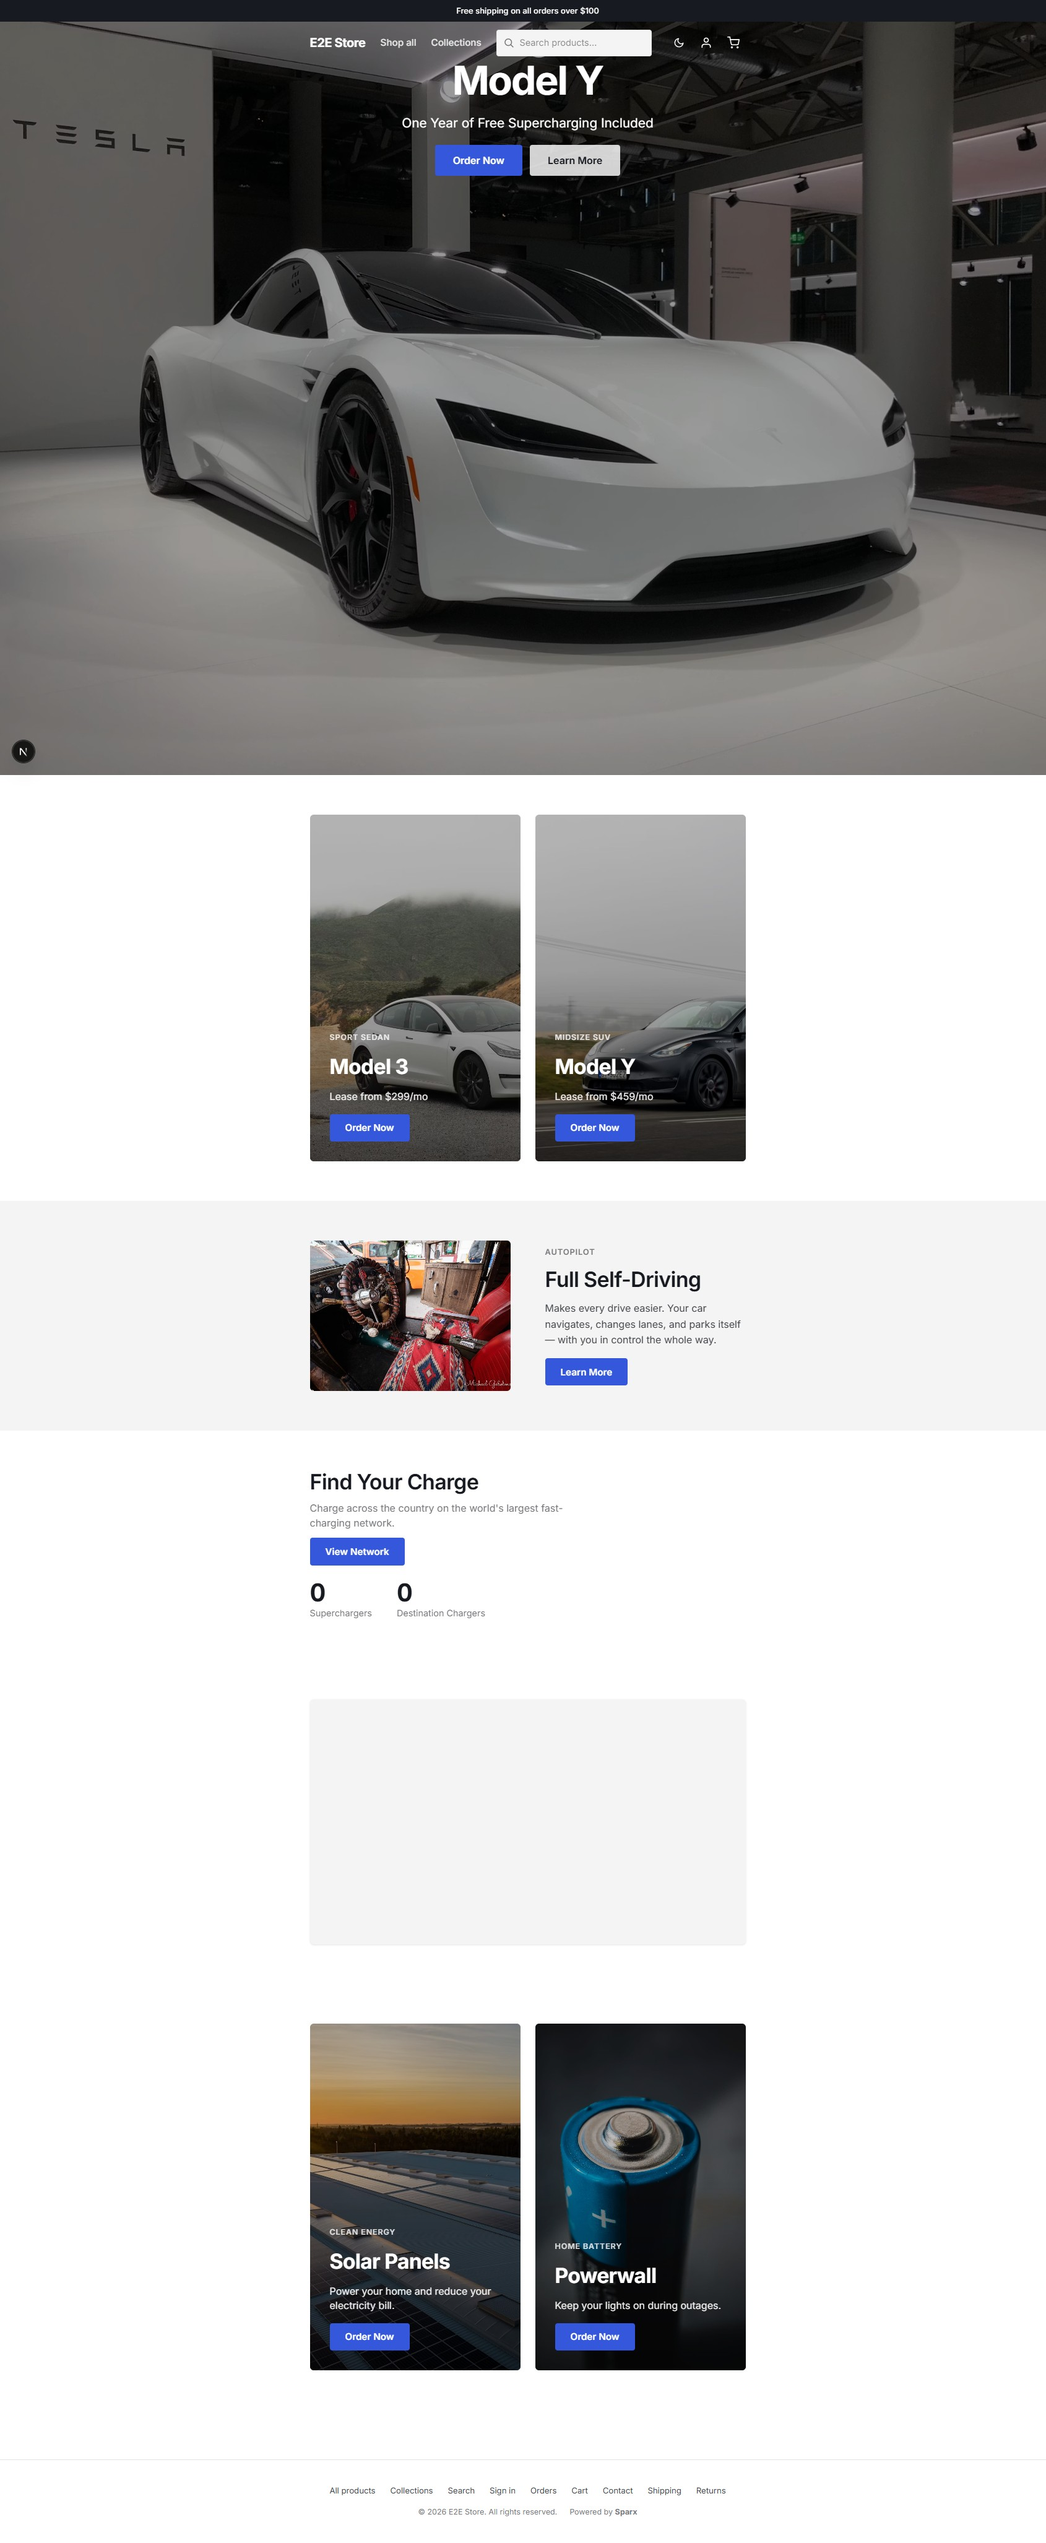
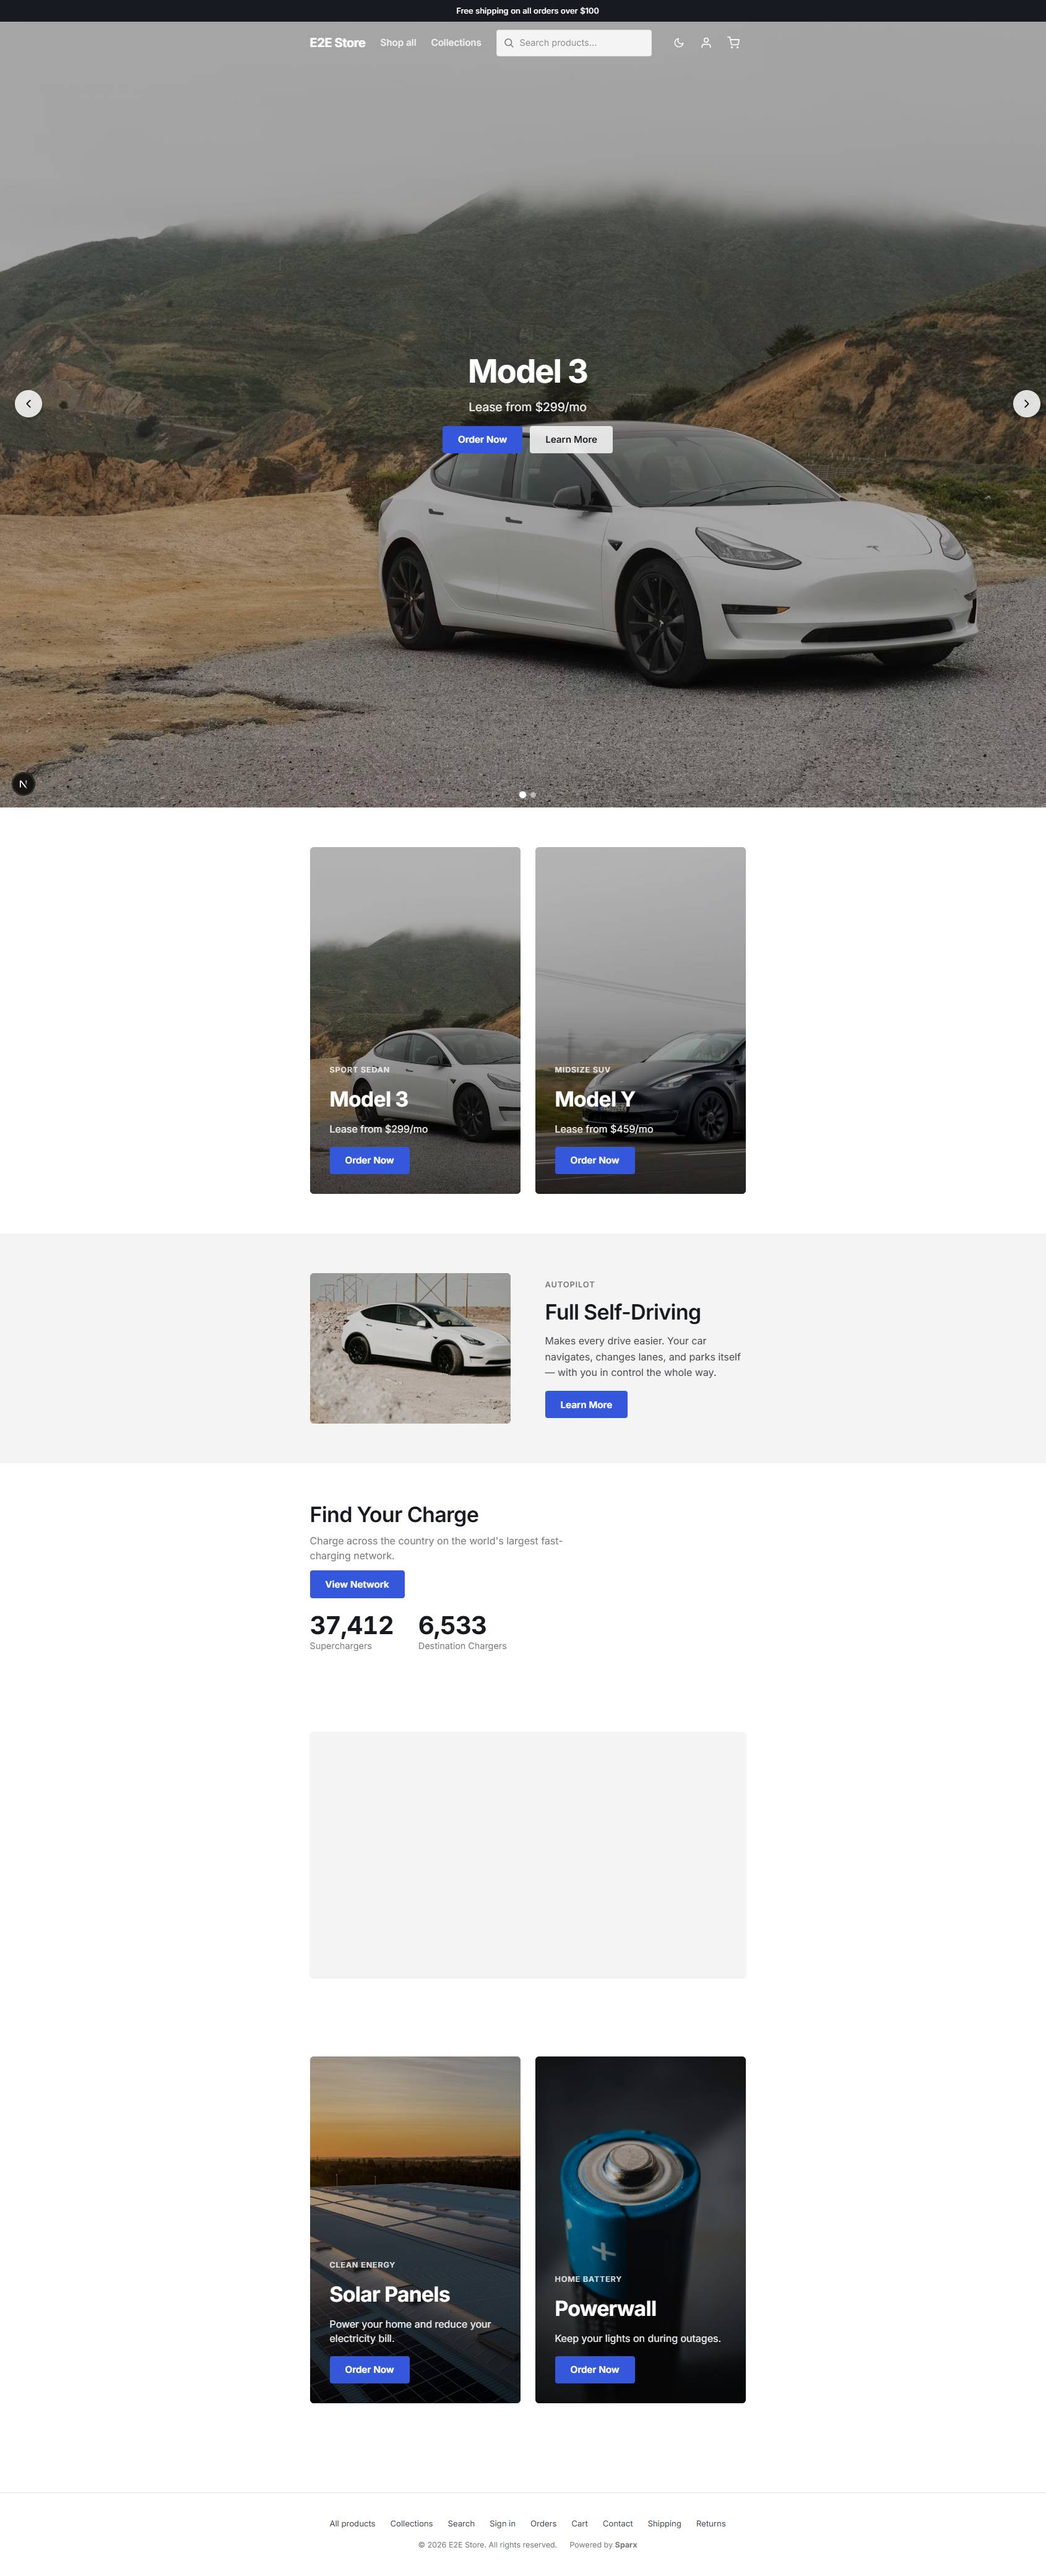
chore: update tesla-page-full image file

diff --git a/apps/storefront/app/storefront.css b/apps/storefront/app/storefront.css
@@ -1881,6 +1881,41 @@
   line-height: 1.5;
   opacity: 0.95;
 }
+/* Split placement — the full-screen "model name up top, buttons down low" hero
+   treatment: text group pinned to the top, CTA group to the bottom, the photo
+   filling the gap between. */
+.sf-sb-banner[data-valign='split'] {
+  align-items: stretch;
+}
+.sf-sb-banner[data-valign='split'] .sf-sb-banner__inner {
+  /* No explicit height — `align-items: stretch` on the banner stretches this to
+     the full section height so space-between can pin the groups top & bottom.
+     (Setting height:100% here would resolve against the parent's indefinite
+     height and collapse back to content height.) */
+  display: flex;
+  flex-direction: column;
+  justify-content: space-between;
+  align-self: stretch;
+  width: 100%;
+  max-width: none;
+  gap: 1.5rem;
+}
+.sf-sb-banner__group {
+  display: grid;
+  gap: 0.75rem;
+}
+.sf-sb-banner[data-align='center'] .sf-sb-banner__group {
+  justify-items: center;
+}
+.sf-sb-banner[data-align='right'] .sf-sb-banner__group {
+  justify-items: end;
+}
+.sf-sb-banner[data-valign='split'] .sf-sb-banner__group--top {
+  padding-top: clamp(0.5rem, 4vh, 3rem);
+}
+.sf-sb-banner[data-valign='split'] .sf-sb-banner__group--bottom {
+  padding-bottom: clamp(0.5rem, 3vh, 2rem);
+}
 
 /* Rich text section. */
 .sf-sb-richtext[data-align='center'] {
@@ -2671,6 +2706,15 @@ html.sf-reveal-ready [data-section-type='hero'] .sf-sb-hero__inner > *:nth-child
 .sf-sb-panel--media .sf-btn--dark:hover,
 .sf-sb-carousel__slide .sf-btn--dark:hover {
   background: rgb(23 26 32 / 0.88);
+}
+/* Tesla-style media-overlay CTAs: pill-shaped and comfortably wide, independent
+   of the site's base control radius (the full-bleed hero/banner button look). */
+.sf-sb-hero[data-has-bg='true'] .sf-btn,
+.sf-sb-banner .sf-btn,
+.sf-sb-panel--media .sf-btn,
+.sf-sb-carousel__slide .sf-btn {
+  border-radius: 100px;
+  min-width: 12rem;
 }
 
 /* ─── Embed section (docs/37 — bring-your-own map / video / widget) ──────────

diff --git a/apps/storefront/components/sections/image-banner.tsx b/apps/storefront/components/sections/image-banner.tsx
@@ -20,6 +20,17 @@ export function ImageBannerSection({
   const overlay = Math.min(100, Math.max(0, config.overlayOpacity)) / 100;
   const ctas = resolveCtas(config);
   const hasText = Boolean(config.eyebrow || config.heading || config.subheading || ctas.length);
+  // `split` pins the text to the top and the CTAs to the bottom of a full-height
+  // section (the Tesla-style model section). Otherwise everything stacks together.
+  const isSplit = config.verticalAlign === 'split';
+
+  const textBlock = (
+    <>
+      {config.eyebrow ? <p className="sf-sb-banner__eyebrow">{config.eyebrow}</p> : null}
+      {config.heading ? <h2 className="sf-sb-banner__title">{config.heading}</h2> : null}
+      {config.subheading ? <p className="sf-sb-banner__sub">{config.subheading}</p> : null}
+    </>
+  );
 
   const banner = (
     <div
@@ -44,10 +55,21 @@ export function ImageBannerSection({
       ) : null}
       {hasText ? (
         <div className="sf-sb-banner__inner">
-          {config.eyebrow ? <p className="sf-sb-banner__eyebrow">{config.eyebrow}</p> : null}
-          {config.heading ? <h2 className="sf-sb-banner__title">{config.heading}</h2> : null}
-          {config.subheading ? <p className="sf-sb-banner__sub">{config.subheading}</p> : null}
-          <SbCtaRow ctas={ctas} />
+          {isSplit ? (
+            <>
+              <div className="sf-sb-banner__group sf-sb-banner__group--top">{textBlock}</div>
+              {ctas.length ? (
+                <div className="sf-sb-banner__group sf-sb-banner__group--bottom">
+                  <SbCtaRow ctas={ctas} />
+                </div>
+              ) : null}
+            </>
+          ) : (
+            <>
+              {textBlock}
+              <SbCtaRow ctas={ctas} />
+            </>
+          )}
         </div>
       ) : null}
     </div>

diff --git a/packages/sitebuilder-schemas/src/sections/image-banner.ts b/packages/sitebuilder-schemas/src/sections/image-banner.ts
@@ -19,7 +19,9 @@ export const ImageBannerConfig = z.object({
   subheading: z.string().max(300).default(''),
   ctas: ctas([{ label: 'Learn more', url: '/products', style: 'solid' }]),
   align: Align.default('left'),
-  verticalAlign: z.enum(['top', 'center', 'bottom']).default('center'),
+  // `split` pins the title block to the top and the CTAs to the bottom (the
+  // full-screen "model name up top, buttons down low" hero treatment).
+  verticalAlign: z.enum(['top', 'center', 'bottom', 'split']).default('center'),
   height: z.enum(['sm', 'md', 'lg', 'screen']).default('md'),
   // Break out of the centered content container to a full-bleed band.
   fullBleed: z.boolean().default(false),
@@ -52,6 +54,7 @@ export const imageBannerFields: SectionField[] = [
       { label: 'Top', value: 'top' },
       { label: 'Center', value: 'center' },
       { label: 'Bottom', value: 'bottom' },
+      { label: 'Split (title top, buttons bottom)', value: 'split' },
     ],
   },
   {
